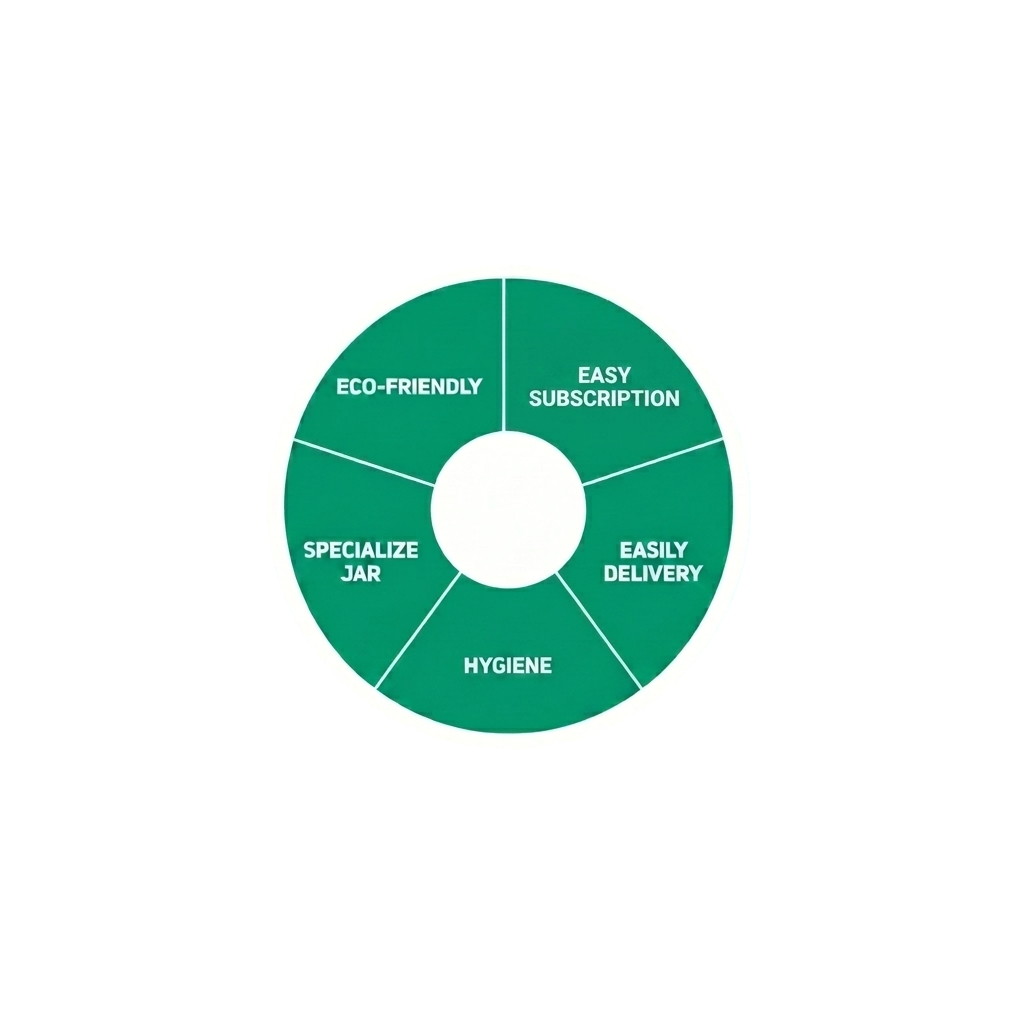
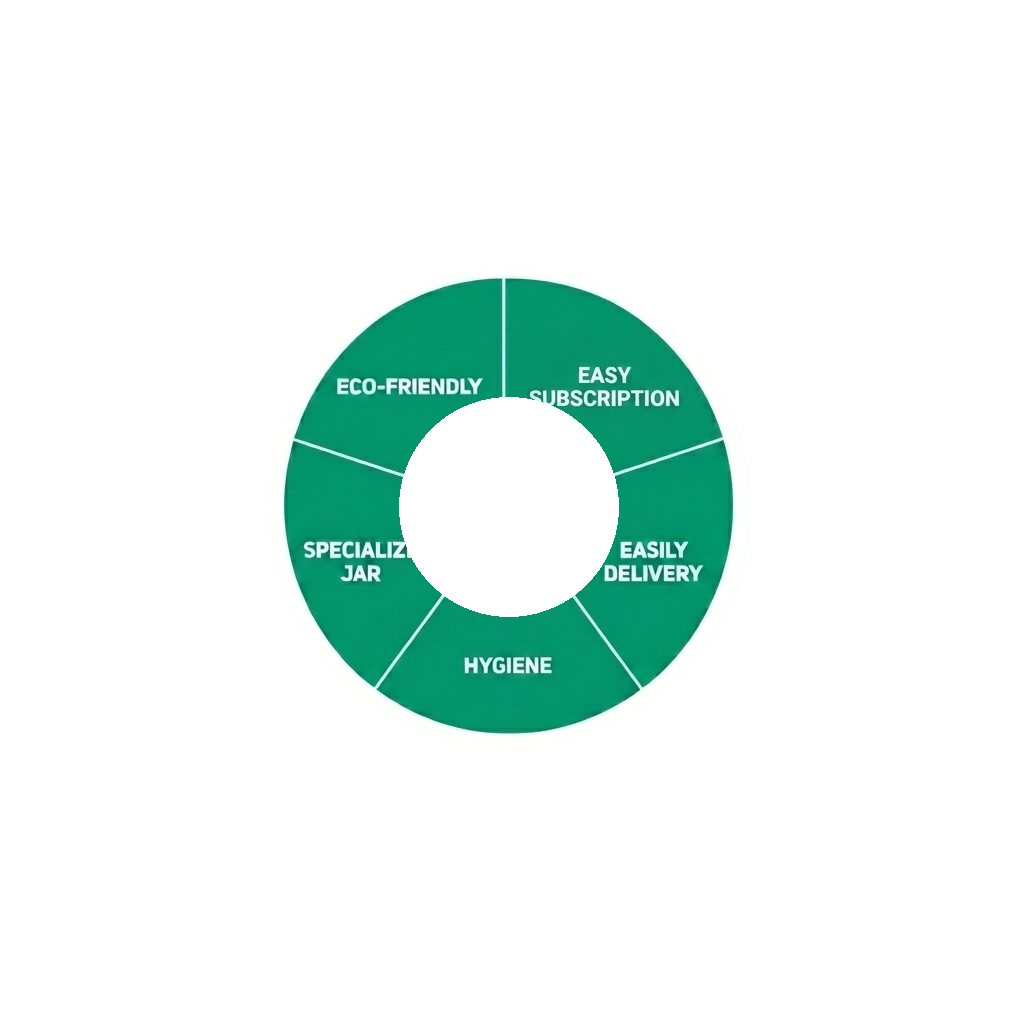
fixed some error

Changed region(s): [[0.375, 0.375, 0.625, 0.625]]

diff --git a/src/components/Hero.tsx b/src/components/Hero.tsx
@@ -124,13 +124,13 @@ export default function Hero({ onSubscribeClick }: HeroProps) {
                 <img 
                   src={cycleDiagramInner} 
                   alt="Peauro Circular Flow Diagram Inner"
-                  className="absolute inset-0 w-full h-full object-contain z-10"
+                  className="absolute inset-0 w-full h-full object-contain z-10 [clip-path:circle(49%_at_50%_50%)]"
                 />
                 {/* Outer rotating blue arrow ring */}
                 <img 
                   src={cycleDiagramOuter} 
                   alt="Peauro Circular Flow Diagram Outer"
-                  className="absolute inset-0 w-full h-full object-contain animate-[spin_60s_linear_infinite]"
+                  className="absolute inset-0 w-full h-full object-contain animate-[spin_60s_linear_infinite] [clip-path:circle(49.5%_at_50%_50%)]"
                   style={{ 
                     transformOrigin: '49.658% 49.463%'
                   }}

diff --git a/src/components/Navbar.tsx b/src/components/Navbar.tsx
@@ -17,16 +17,7 @@ export default function Navbar({ onSubscriptionClick, onProfileClick, selectedLo
   const location = useLocation();
   const isHome = location.pathname === '/';
 
-  const [darkMode, setDarkMode] = useState(() => {
-    if (typeof window !== 'undefined') {
-      const savedTheme = localStorage.getItem('theme');
-      if (savedTheme) {
-        return savedTheme === 'dark';
-      }
-      return window.matchMedia('(prefers-color-scheme: dark)').matches;
-    }
-    return false;
-  });
+  const [darkMode, setDarkMode] = useState(false);
 
   useEffect(() => {
     if (darkMode) {

diff --git a/index.html b/index.html
@@ -3,6 +3,10 @@
   <head>
     <meta charset="UTF-8" />
     <meta name="viewport" content="width=device-width, initial-scale=1.0" />
+    <script>
+      document.documentElement.classList.remove('dark');
+      localStorage.setItem('theme', 'light');
+    </script>
     <link rel="icon" type="image/jpeg" href="https://res.cloudinary.com/da9xdkqvl/image/upload/w_512,h_512,c_fill,g_center/v1784093996/LOGO.jpg_cqthwg.jpg" />
     <title>Peauro</title>
   </head>
